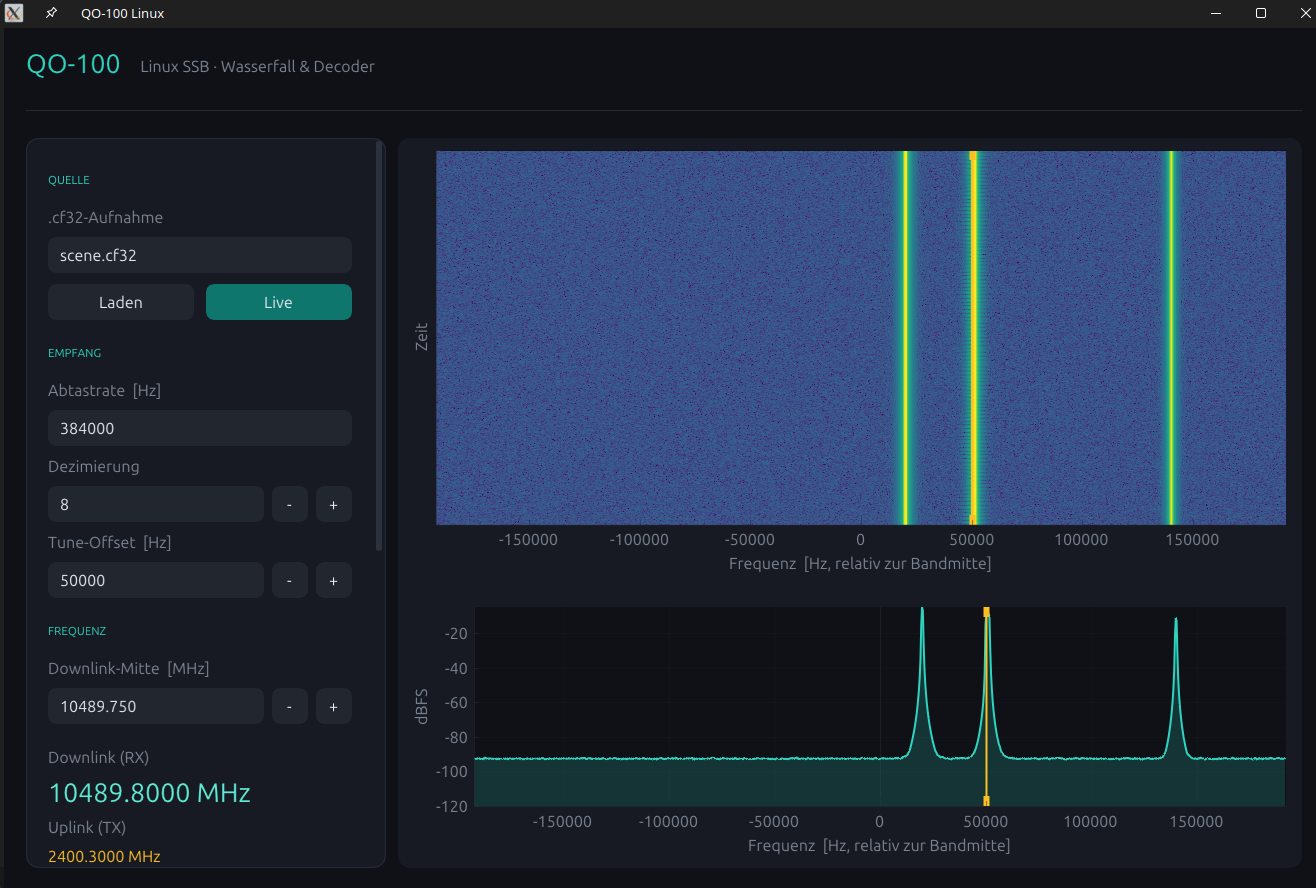
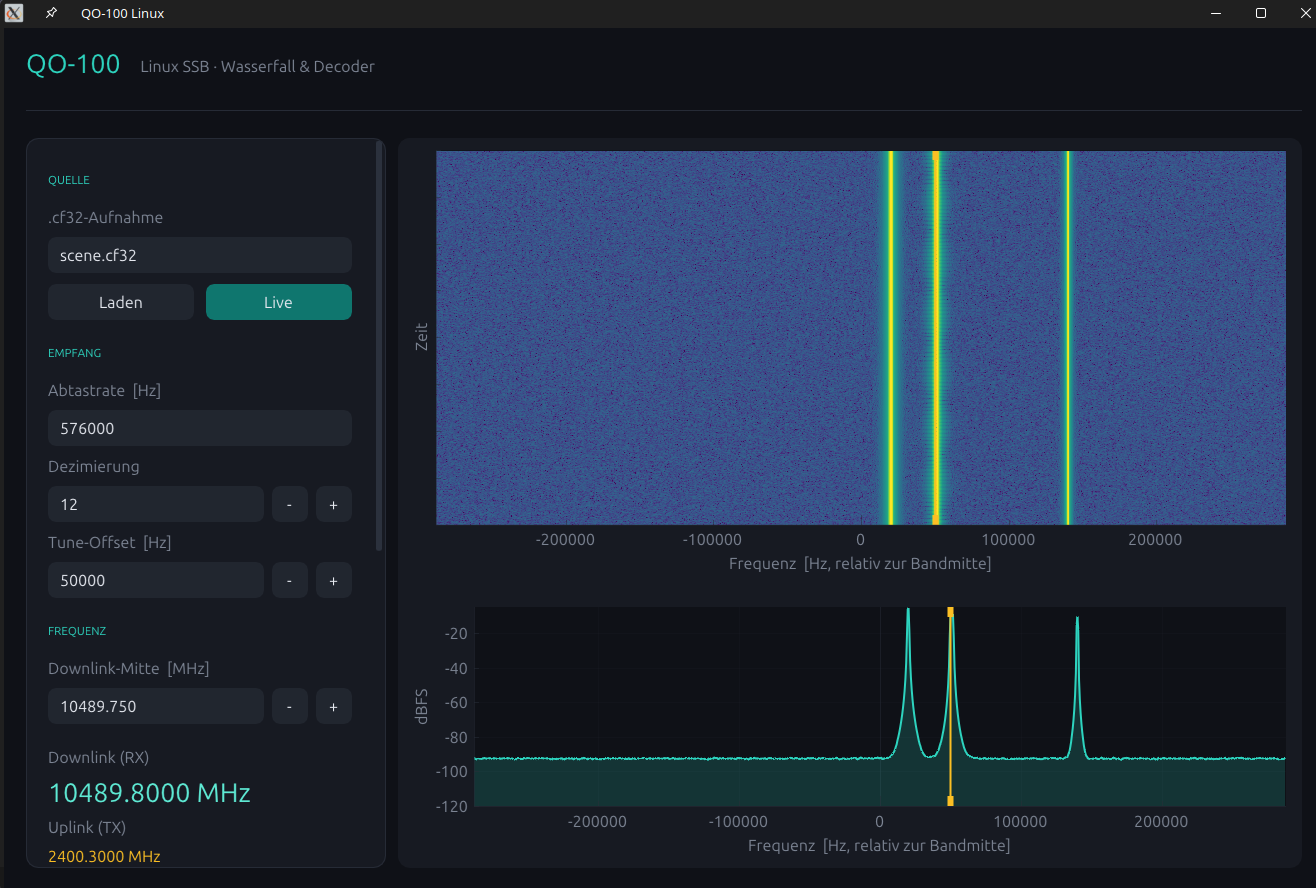
SSB channel filter (2.7 kHz) for RX/TX + wider default sample rate
Address gaps found against the AMSAT-DL NB-transponder spec:

- audiofilter: 300-2700 Hz windowed-sinc band-pass. RX inserts it after the
  USB demod for real SSB selectivity (previously the channel was ~21 kHz
  wide); TX inserts it before modulation to keep the signal inside the band
  plan's 2.7 kHz limit.
- test_rx: new selectivity check — an adjacent signal 5 kHz away is rejected
  by >35 dB (measured 75 dB).
- Default sample rate 384k/8 -> 576k/12 (still 48 kHz audio) so the full
  500 kHz narrowband transponder fits in the view; CLI/GUI/README updated.

diff --git a/engine/audiofilter.cpp b/engine/audiofilter.cpp
@@ -1,0 +1,60 @@
+#include "audiofilter.h"
+#include <algorithm>
+#include <cmath>
+
+namespace qo100 {
+
+namespace {
+constexpr double kTwoPi = 6.283185307179586476925287;
+}
+
+BandpassFIR::BandpassFIR(double sampleRate, double lowHz, double highHz, int numTaps) {
+    if (numTaps % 2 == 0) ++numTaps; // odd, symmetric
+    taps_.resize(numTaps);
+    buf_.assign(numTaps, 0.0f);
+    const int M = numTaps / 2;
+    const double fl = lowHz / sampleRate;  // normalised 0..0.5
+    const double fh = highHz / sampleRate;
+
+    for (int k = 0; k < numTaps; ++k) {
+        const int m = k - M;
+        // Ideal band-pass = high-pass(fl) ... low-pass(fh) as a difference of sincs.
+        double ideal;
+        if (m == 0) ideal = 2.0 * (fh - fl);
+        else ideal = (std::sin(kTwoPi * fh * m) - std::sin(kTwoPi * fl * m)) / (M_PI * m);
+        const double w = 0.54 - 0.46 * std::cos(kTwoPi * k / (numTaps - 1)); // Hamming
+        taps_[k] = static_cast<float>(ideal * w);
+    }
+
+    // Normalise to unity gain at the band centre.
+    const double fc = 0.5 * (fl + fh);
+    double re = 0.0, im = 0.0;
+    for (int k = 0; k < numTaps; ++k) {
+        const double ang = kTwoPi * fc * (k - M);
+        re += taps_[k] * std::cos(ang);
+        im += taps_[k] * std::sin(ang);
+    }
+    const double gain = std::sqrt(re * re + im * im);
+    if (gain > 1e-9)
+        for (auto& t : taps_) t = static_cast<float>(t / gain);
+}
+
+void BandpassFIR::reset() {
+    std::fill(buf_.begin(), buf_.end(), 0.0f);
+    pos_ = 0;
+}
+
+float BandpassFIR::process(float x) {
+    const int N = static_cast<int>(taps_.size());
+    buf_[pos_] = x;
+    pos_ = (pos_ + 1) % N;
+    float acc = 0.0f;
+    for (int k = 0; k < N; ++k) {
+        int idx = pos_ - 1 - k;
+        if (idx < 0) idx += N;
+        acc += taps_[k] * buf_[idx];
+    }
+    return acc;
+}
+
+} // namespace qo100

diff --git a/engine/audiofilter.h b/engine/audiofilter.h
@@ -1,0 +1,22 @@
+#pragma once
+#include <vector>
+
+// Windowed-sinc FIR band-pass for the SSB audio channel. QO-100 allows a
+// maximum signal bandwidth of 2.7 kHz, so the receive audio (and transmit
+// audio) is limited to ~300-2700 Hz: this gives real SSB selectivity on RX
+// and keeps the transmitted signal inside the band plan on TX.
+namespace qo100 {
+
+class BandpassFIR {
+public:
+    BandpassFIR(double sampleRate, double lowHz, double highHz, int numTaps = 511);
+    float process(float x);
+    void reset();
+
+private:
+    std::vector<float> taps_;
+    std::vector<float> buf_;
+    int pos_ = 0;
+};
+
+} // namespace qo100

diff --git a/tests/test_rx.cpp b/tests/test_rx.cpp
@@ -98,6 +98,27 @@ int main() {
         check(rej > 35.0, "USB pass / LSB leak", rej, "dB");
     }
 
+    // --- SSB channel filter: a signal outside 2.7 kHz must be rejected ---
+    // Wanted USB tone -> 1500 Hz audio (in band); an adjacent USB signal 5 kHz
+    // higher -> 5000 Hz audio, which the 300-2700 Hz channel filter must cut.
+    {
+        const double fWanted = 1500.0, fAdjacent = 5000.0;
+        auto scene = complexTone(fTune + fWanted, fsIn, n, 1.0f);
+        auto adj = complexTone(fTune + fAdjacent, fsIn, n, 1.0f);
+        for (int i = 0; i < n; ++i) scene[i] += adj[i];
+
+        RxChain rx(fsIn, decim);
+        rx.setTune(fTune);
+        std::vector<float> audio;
+        rx.process(scene, audio);
+
+        const double pass = binPower(audio, fWanted, audioFs, skip);
+        const double rej = binPower(audio, fAdjacent, audioFs, skip);
+        const double ratio = toDb(pass / rej);
+        std::printf("rx (channel selectivity):\n");
+        check(ratio > 35.0, "in-band / out-of-band (5 kHz)", ratio, "dB");
+    }
+
     // --- AGC: silence -> sudden full signal must not spike, then settle ---
     {
         Agc agc(audioFs);

diff --git a/engine/tx.cpp b/engine/tx.cpp
@@ -63,20 +63,23 @@ void FirInterpolator::process(cf32 x, std::vector<cf32>& out) {
 TxChain::TxChain(double fsOut, int interp)
     : fsOut_(fsOut),
       audioFs_(fsOut / interp),
+      channel_(fsOut / interp, 300.0, 2700.0),
       mod_(fsOut / interp, 0.0), // baseband USB at audio rate
       filt_(interp, fsOut, fsOut / interp) {}
 
 void TxChain::setTune(double hz) { nco_.setFreq(hz, fsOut_); }
 
 void TxChain::reset() {
+    channel_.reset();
     mod_.reset();
     filt_.reset();
     nco_.reset();
 }
 
 void TxChain::process(const std::vector<float>& audioIn, std::vector<cf32>& iqOut) {
-    for (const float a : audioIn) {
-        const cf32 bb = mod_.process(a); // complex baseband USB
+    for (const float aRaw : audioIn) {
+        const float a = channel_.process(aRaw); // limit to the 2.7 kHz SSB channel
+        const cf32 bb = mod_.process(a);        // complex baseband USB
         const size_t before = iqOut.size();
         filt_.process(bb, iqOut);        // interpolate to fsOut
         for (size_t i = before; i < iqOut.size(); ++i)

diff --git a/apps/qo100_cli.cpp b/apps/qo100_cli.cpp
@@ -45,7 +45,7 @@ int usage() {
 // Synthetic scene: a USB signal carrying 300/800/1500 Hz tones at a +50 kHz
 // carrier offset, plus a far interferer and a little noise. fsIn = 384 kHz.
 int generate(const std::string& path) {
-    const double fsIn = 384000.0, carrier = 50000.0;
+    const double fsIn = 576000.0, carrier = 50000.0; // ~full 500 kHz NB transponder
     const int n = (int)fsIn * 3; // 3 seconds
     std::vector<cf32> scene(n, cf32(0.0f, 0.0f));
 
@@ -66,8 +66,8 @@ int generate(const std::string& path) {
         return 1;
     }
     std::printf("wrote %s  (%d samples @ %.0f Hz)\n", path.c_str(), n, fsIn);
-    std::printf("decode it with:\n  qo100_cli decode %s 384000 8 50000 out.wav\n", path.c_str());
-    std::printf("calibrate on the beacon:\n  qo100_cli calibrate %s 384000 20000 8000\n", path.c_str());
+    std::printf("decode it with:\n  qo100_cli decode %s 576000 12 50000 out.wav\n", path.c_str());
+    std::printf("calibrate on the beacon:\n  qo100_cli calibrate %s 576000 20000 8000\n", path.c_str());
     return 0;
 }
 

diff --git a/engine/rx.cpp b/engine/rx.cpp
@@ -111,6 +111,7 @@ RxChain::RxChain(double fsIn, int decim)
       audioFs_(fsIn / decim),
       dec_(decim, fsIn, fsIn / decim),
       dem_(fsIn / decim, 0.0), // carrier tuned to 0 Hz by the Nco
+      channel_(fsIn / decim, 300.0, 2700.0),
       agc_(fsIn / decim) {}
 
 void RxChain::setTune(double hz) { nco_.setFreq(hz, fsIn_); }
@@ -119,6 +120,7 @@ void RxChain::reset() {
     nco_.reset();
     dec_.reset();
     dem_.reset();
+    channel_.reset();
     agc_.reset();
 }
 
@@ -127,7 +129,8 @@ void RxChain::process(const std::vector<cf32>& in, std::vector<float>& audioOut)
     for (const cf32 s : in) {
         const cf32 tuned = nco_.mixDown(s);
         if (dec_.process(tuned, dec)) {
-            audioOut.push_back(agc_.process(dem_.process(dec)));
+            const float audio = channel_.process(dem_.process(dec)); // SSB channel filter
+            audioOut.push_back(agc_.process(audio));
         }
     }
 }

diff --git a/ui/main.cpp b/ui/main.cpp
@@ -54,8 +54,8 @@ struct App {
     bool haveData = false;
     std::string status = "Aufnahme wählen und »Laden« drücken.";
 
-    float fsIn = 384000.0f;
-    int decim = 8;
+    float fsIn = 576000.0f; // covers the full 500 kHz NB transponder
+    int decim = 12;         // -> 48 kHz audio
     double tune = 50000.0;
     float dbMin = -120.0f, dbMax = -10.0f;
 

diff --git a/engine/rx.h b/engine/rx.h
@@ -1,4 +1,5 @@
 #pragma once
+#include "audiofilter.h"
 #include "ssb.h"
 #include <complex>
 #include <vector>
@@ -72,6 +73,7 @@ private:
     Nco nco_;
     FirDecimator dec_;
     SsbDemodulator dem_;
+    BandpassFIR channel_; // 300-2700 Hz SSB channel filter
     Agc agc_;
 };
 

diff --git a/engine/tx.h b/engine/tx.h
@@ -1,4 +1,5 @@
 #pragma once
+#include "audiofilter.h"
 #include "rx.h" // Nco
 #include "ssb.h"
 #include <complex>
@@ -39,6 +40,7 @@ public:
 private:
     double fsOut_;
     double audioFs_;
+    BandpassFIR channel_;  // 300-2700 Hz: keep TX inside the band plan
     SsbModulator mod_;     // baseband USB (carrier at 0 Hz)
     FirInterpolator filt_; // up to the wide TX rate
     Nco nco_;              // mix up to the tune offset

diff --git a/README.md b/README.md
@@ -38,15 +38,19 @@ SDR zum Testen vorhanden ist.
 - TX-Kette: Pluto TX (2.4 GHz direkt) → PA (~1–5 W) → Patch/POTY im Spiegelfokus
 - Pluto kann Full-Duplex mit unabhängigen RX/TX-LOs → man hört sich selbst.
 - Doppler ist vernachlässigbar (geostationär); dominant ist die **LNB-LO-Drift**.
-  Kalibrierung erfolgt über den mittleren PSK-Beacon @ 10489.750 MHz.
+  Kalibrierung erfolgt über einen Beacon (CW @ 10489.500/10490.000, BPSK @ 10489.750).
+- NB-Transponder: **max. 2,7 kHz Bandbreite** pro Signal → SSB-Kanalfilter 300–2700 Hz
+  in RX und TX. Der Transponder ist **500 kHz** breit → Abtastrate **≥ 576 kHz**
+  (Default), um das ganze Band zu sehen.
 
 ## Architektur
 
 ```
 engine/   headless DSP, hardwarefrei testbar (IQ rein/raus)
   ssb.*       Hilbert-FIR, USB-Modulator/-Demodulator (phasing method)
-  rx.*        RX-Kette: NCO-Tuner -> FIR-Dezimierung -> USB-Demod -> AGC
-  tx.*        TX-Kette: USB-Mod -> FIR-Interpolation -> NCO-Up-Mix
+  rx.*        RX-Kette: NCO-Tuner -> FIR-Dezimierung -> USB-Demod -> Kanalfilter -> AGC
+  tx.*        TX-Kette: Kanalfilter -> USB-Mod -> FIR-Interpolation -> NCO-Up-Mix
+  audiofilter.* SSB-Kanal-Bandpass 300-2700 Hz (RX-Selektivität, TX-Bandplan)
   calib.*     Beacon-Kalibrierung: CW-Beacon finden, LNB-Drift messen
   qo100.h     Frequenzplan (Uplink/Downlink, Beacons, 8089.5-MHz-Offset)
   device.h    IqDevice-Schnittstelle (Pluto später = eine Implementierung)
@@ -75,13 +79,13 @@ tests/        Selbsttests (SSB, RX-Kette, TX-Loopback, FFT/Spektrum/WAV)
 ./build/qo100_cli gen scene.cf32
 
 # .cf32 dekodieren -> hörbare .wav (fsIn, Dezimierung, Tune-Offset in Hz)
-./build/qo100_cli decode scene.cf32 384000 8 50000 out.wav
+./build/qo100_cli decode scene.cf32 576000 12 50000 out.wav
 
 # Sendepfad: Mono-WAV USB-modulieren -> .cf32 (fsOut, Interpolation, Tune-Offset)
-./build/qo100_cli modulate out.wav 384000 8 50000 tx.cf32
+./build/qo100_cli modulate out.wav 576000 12 50000 tx.cf32
 
 # LNB-Drift am Beacon messen (erwartete Position, Suchfenster in Hz)
-./build/qo100_cli calibrate scene.cf32 384000 20000 8000
+./build/qo100_cli calibrate scene.cf32 576000 20000 8000
 ```
 
 Echte QO-100-Mitschnitte (interleaved float32 `.cf32`, z. B. aus gqrx oder vom